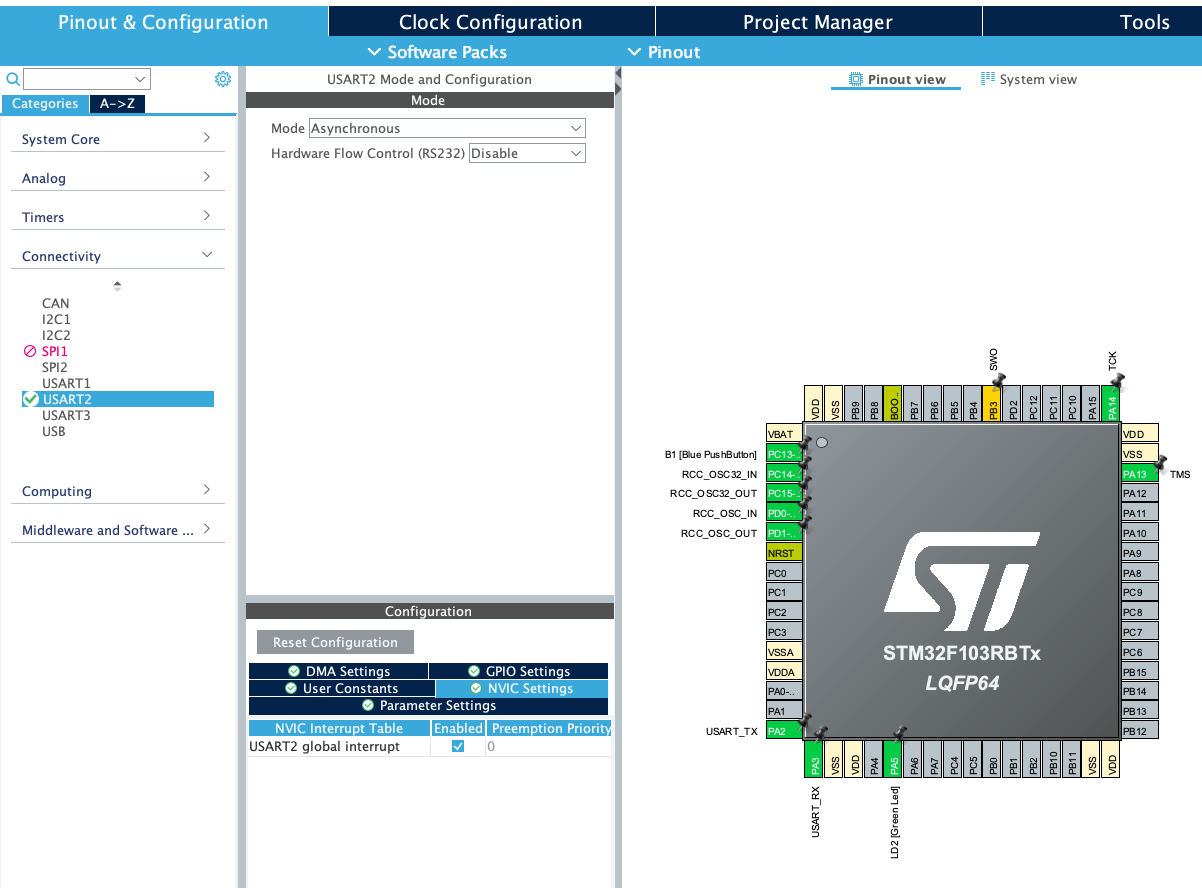
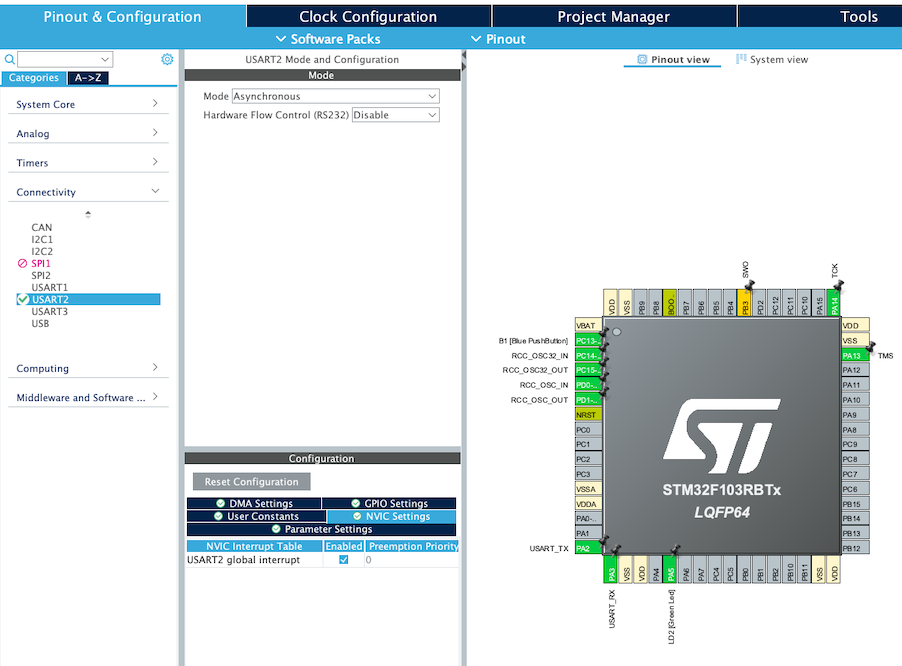
resized usart interrupt pic

diff --git a/Lab-3/CLI2.md b/Lab-3/CLI2.md
@@ -30,14 +30,17 @@ Another good one for this lab is to create a scroll window:
 - Start the STM32CubeIDE software and create a new STM32 project.
 - Search and Select our Nucleo-64 board.
 - Initiate all peripherals with their default mode.
-- Enable the 
+- Enable the USART2 global interrupt.
 
 <table>
   <tr>
-    <td> <img src="UsartInterrupt.png"  alt="UsartInterrupt" width = 1202px height = 888px ></td>
+    <td> <img src="UsartInterrupt.png"  alt="UsartInterrupt" width = 902px height = 666px ></td>
   </tr>
 </table>
+
 - Save the project and generate all the setup code.
+
+### Use the non-blocking transmit and receive functions
 
 ### Create the new CLI interface
 Using the information in the videos and handout, create a CLI that has a status window that displays the status information for the board. It is up to you how you want to provide that information to the user but of course the cleaner and more concise the better. The command scroll window should appear below this window and provide a command prompt for the user to submit requests. This status window should be periodically updated using a timer feature. If a command comes in it should be acted on and the status window updated immediately.
